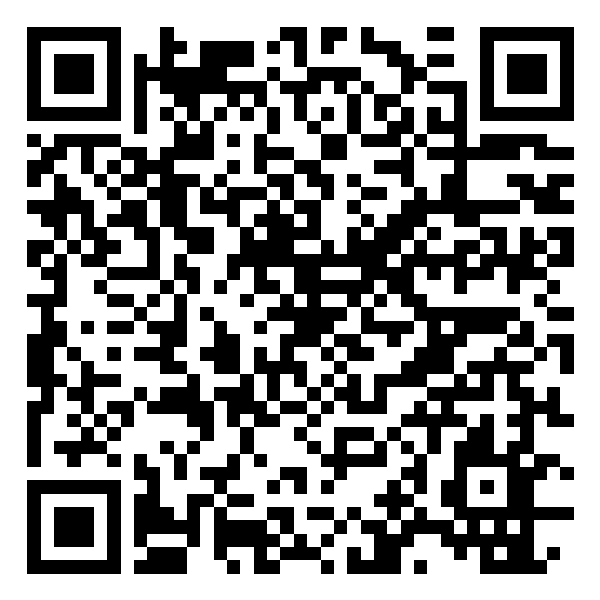
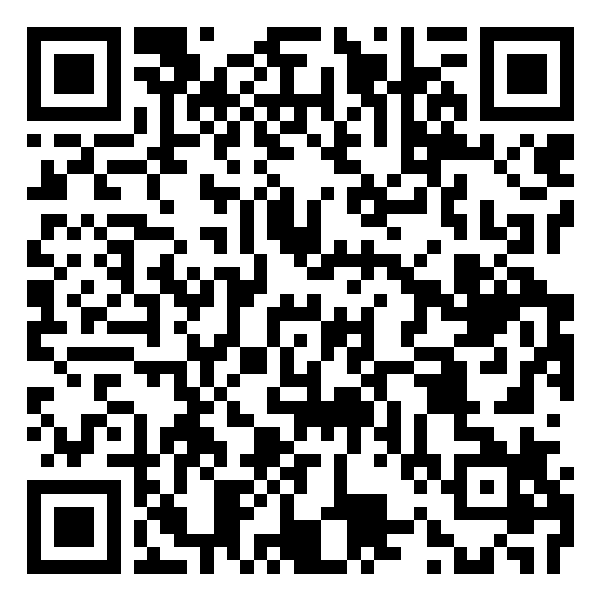
Kap. 8: Datei in kapitel08-bauanleitungen.qmd umbenannt, Weiterleitung anhang-primer.html, QR-Codes neu
Claude-Session: https://claude.ai/code/session_01NiJQCWd3UnurgXtXmRzDLm

diff --git a/anhang-primer.html b/anhang-primer.html
@@ -1,0 +1,28 @@
+<!DOCTYPE html>
+<html lang="de">
+<head>
+<meta charset="utf-8">
+<meta name="viewport" content="width=device-width, initial-scale=1">
+<meta name="robots" content="noindex">
+<title>Umgezogen: Praxis-Primer – Generative KI als Hilfe zum Lehren und Lernen</title>
+<link rel="canonical" href="kapitel08-bauanleitungen.html">
+<script>
+/* Weiterleitung (14.11.2026): Der frühere Anhang C „Praxis-Primer“ ist jetzt Kapitel 8
+   „Konkrete Bauanleitungen für Lehr-Artefakte“. Alle Anker (#sec-primer-…) heißen gleich. */
+(function () {
+  var a = location.hash.slice(1);
+  if (a === "sec-anhang-primer") a = "";
+  location.replace("kapitel08-bauanleitungen.html" + (a ? "#" + a : ""));
+})();
+</script>
+<noscript><meta http-equiv="refresh" content="0; url=kapitel08-bauanleitungen.html"></noscript>
+<style>body{font-family:system-ui,sans-serif;max-width:40rem;margin:3rem auto;padding:0 1rem;line-height:1.5}</style>
+</head>
+<body>
+<p>Der frühere Anhang „Praxis-Primer für Lehrende“ steht seit November 2026 als Kapitel 8 im Buch:</p>
+<ul>
+<li><a href="kapitel08-bauanleitungen.html">Kapitel 8: Konkrete Bauanleitungen für Lehr-Artefakte</a></li>
+</ul>
+<p><a href="index.html">Zur Startseite</a></p>
+</body>
+</html>

diff --git a/notes/primer-kapitel8/STATUS-primer-kapitel8-ausblick-2026-11-14.md b/notes/primer-kapitel8/STATUS-primer-kapitel8-ausblick-2026-11-14.md
@@ -19,6 +19,6 @@ Auftrag Roman (14.11., 08:51): Primer als viertes Kapitel in Teil II statt Anhan
 ## Offen
 - Kap. 8 hat keinen Kapitelapparat wie Kap. 1–7 (Lernziele, Einschätzungen, Kernaussagen, Schlüsselbegriffe, Lernfragen). Ergänzen oder bewusst weglassen?
 - Lernpfad-Karte (`images/lernpfade/lernpfade-karte.svg`, Widget `interactions/lernpfade.html`) kennt nur Kap. 1–7 und Anhang A; die Sitzung kurztitel-fussnoten plant, die Abbildung durch eine Tabelle zu ersetzen. Kap. 8 dort eintragen.
-- Dateiname: wahlweise später `kapitel08-bauanleitungen.qmd` mit Weiterleitung (`scripts/umzug/weiterleitungen.py`) und neu erzeugten QR-Codes (`scripts/qr-primer.mjs`).
+- Dateiname: umbenannt in `kapitel08-bauanleitungen.qmd` (Roman, MC 14.11.); `anhang-primer.html` leitet mit Anker weiter; vier QR-Codes neu erzeugt und dekodiert.
 - Online steht „Praxisbeispiele im Überblick“ nach dem Ausblick (Profil-Liste wird angehängt).
 - Nach Merge: `docs/` rendern, live prüfen.
